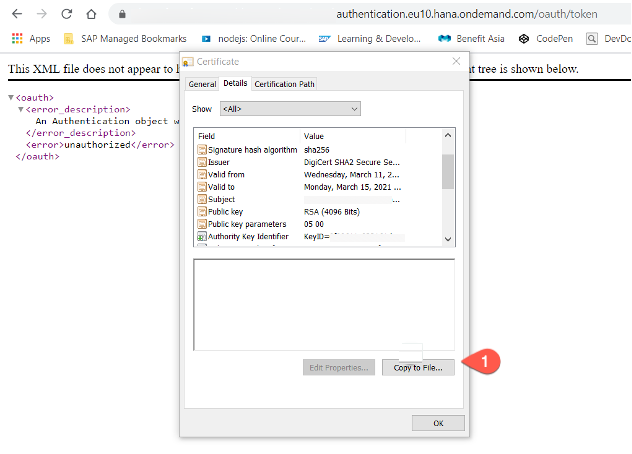
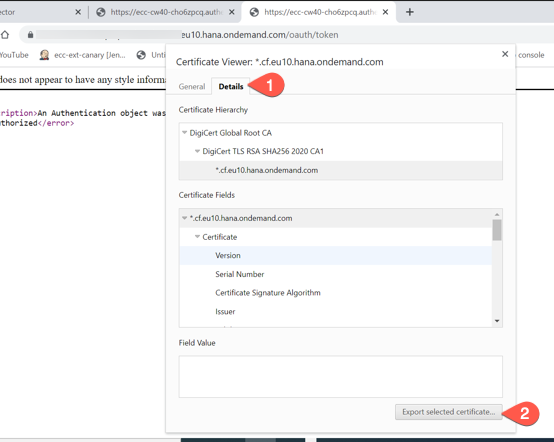
update certificate export

diff --git a/mission/enable-eventing/ConfigureS4andECC.md b/mission/enable-eventing/ConfigureS4andECC.md
@@ -24,29 +24,17 @@ In this section, you will learn how to configure your on-premise backend system 
    
    ![copy EM Token Endpoint](./images/copyEMTokenEndpoint.png)
    
-5. Once you open the Token Endpoint URL, choose **Cancel** in the popup and select on view site information button (lock symbol on top left corner), then choose **Certificate**.
+5. Once you open the Token Endpoint URL, choose **Cancel** in the popup and select on view site information button (lock symbol on top left corner), then choose **Connection is secure**. To show the certificate, choose the icon next to **Certificate is valid** with tooltip **Show certificate**.
 
    ![download Certificate1](./images/downloadCertificate1.png)
    
-6. Select **Details** and choose **Copy to files**.
+6. Select **Details** and choose **Export selected certificate**.
 
    ![download Certificate2](./images/downloadCertificate2.png)
    
-7. When the **Certificate Export Wizard** opens, choose **Next**.
+7. Specify the file name and for **Save as type**, choose **DER encoded binary, single certificate** and choose **Save**.
 
    ![download Certificate3](./images/downloadCertificate3.png)
-   
-8. Select the format as **DER encoded binary X.509 (.CER)** and choose **Next**.
-
-    ![download Certificate4](./images/downloadCertificate4.png)
-    
-9. Select a folder to export the certificate and choose **Next**.
-   
-   ![download Certificate5](./images/downloadCertificate5.png)
-   
-10. Select **Finish** to export the certificate. You have exported the SAP Event Mesh certificate.
-
-    ![download Certificate6](./images/downloadCertificate6.png)
     
 	
 ### Create a Node for Standard SSL Client
